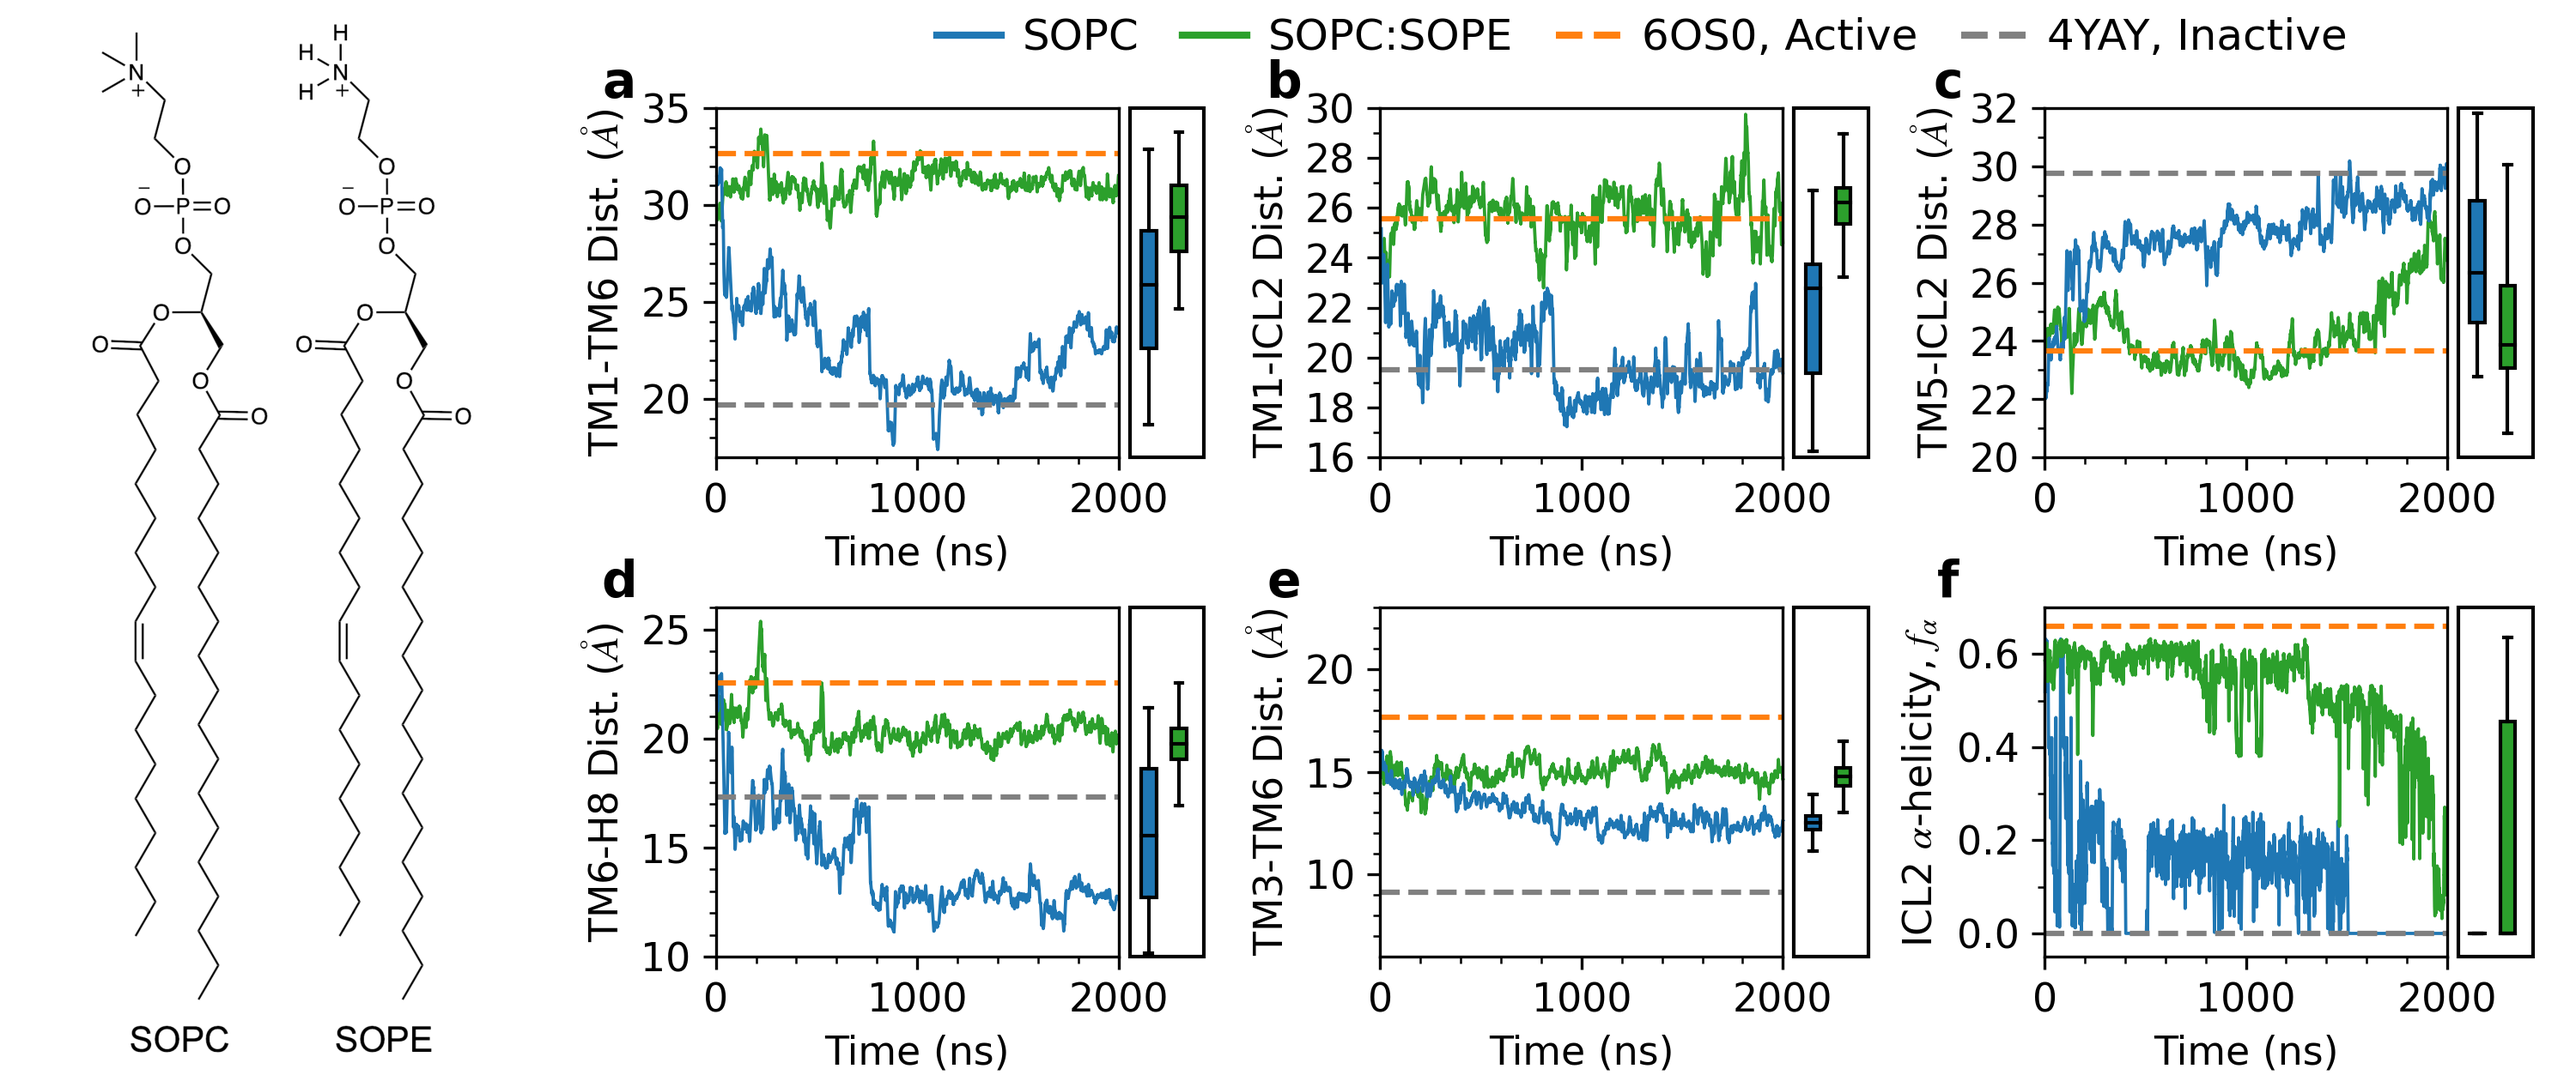
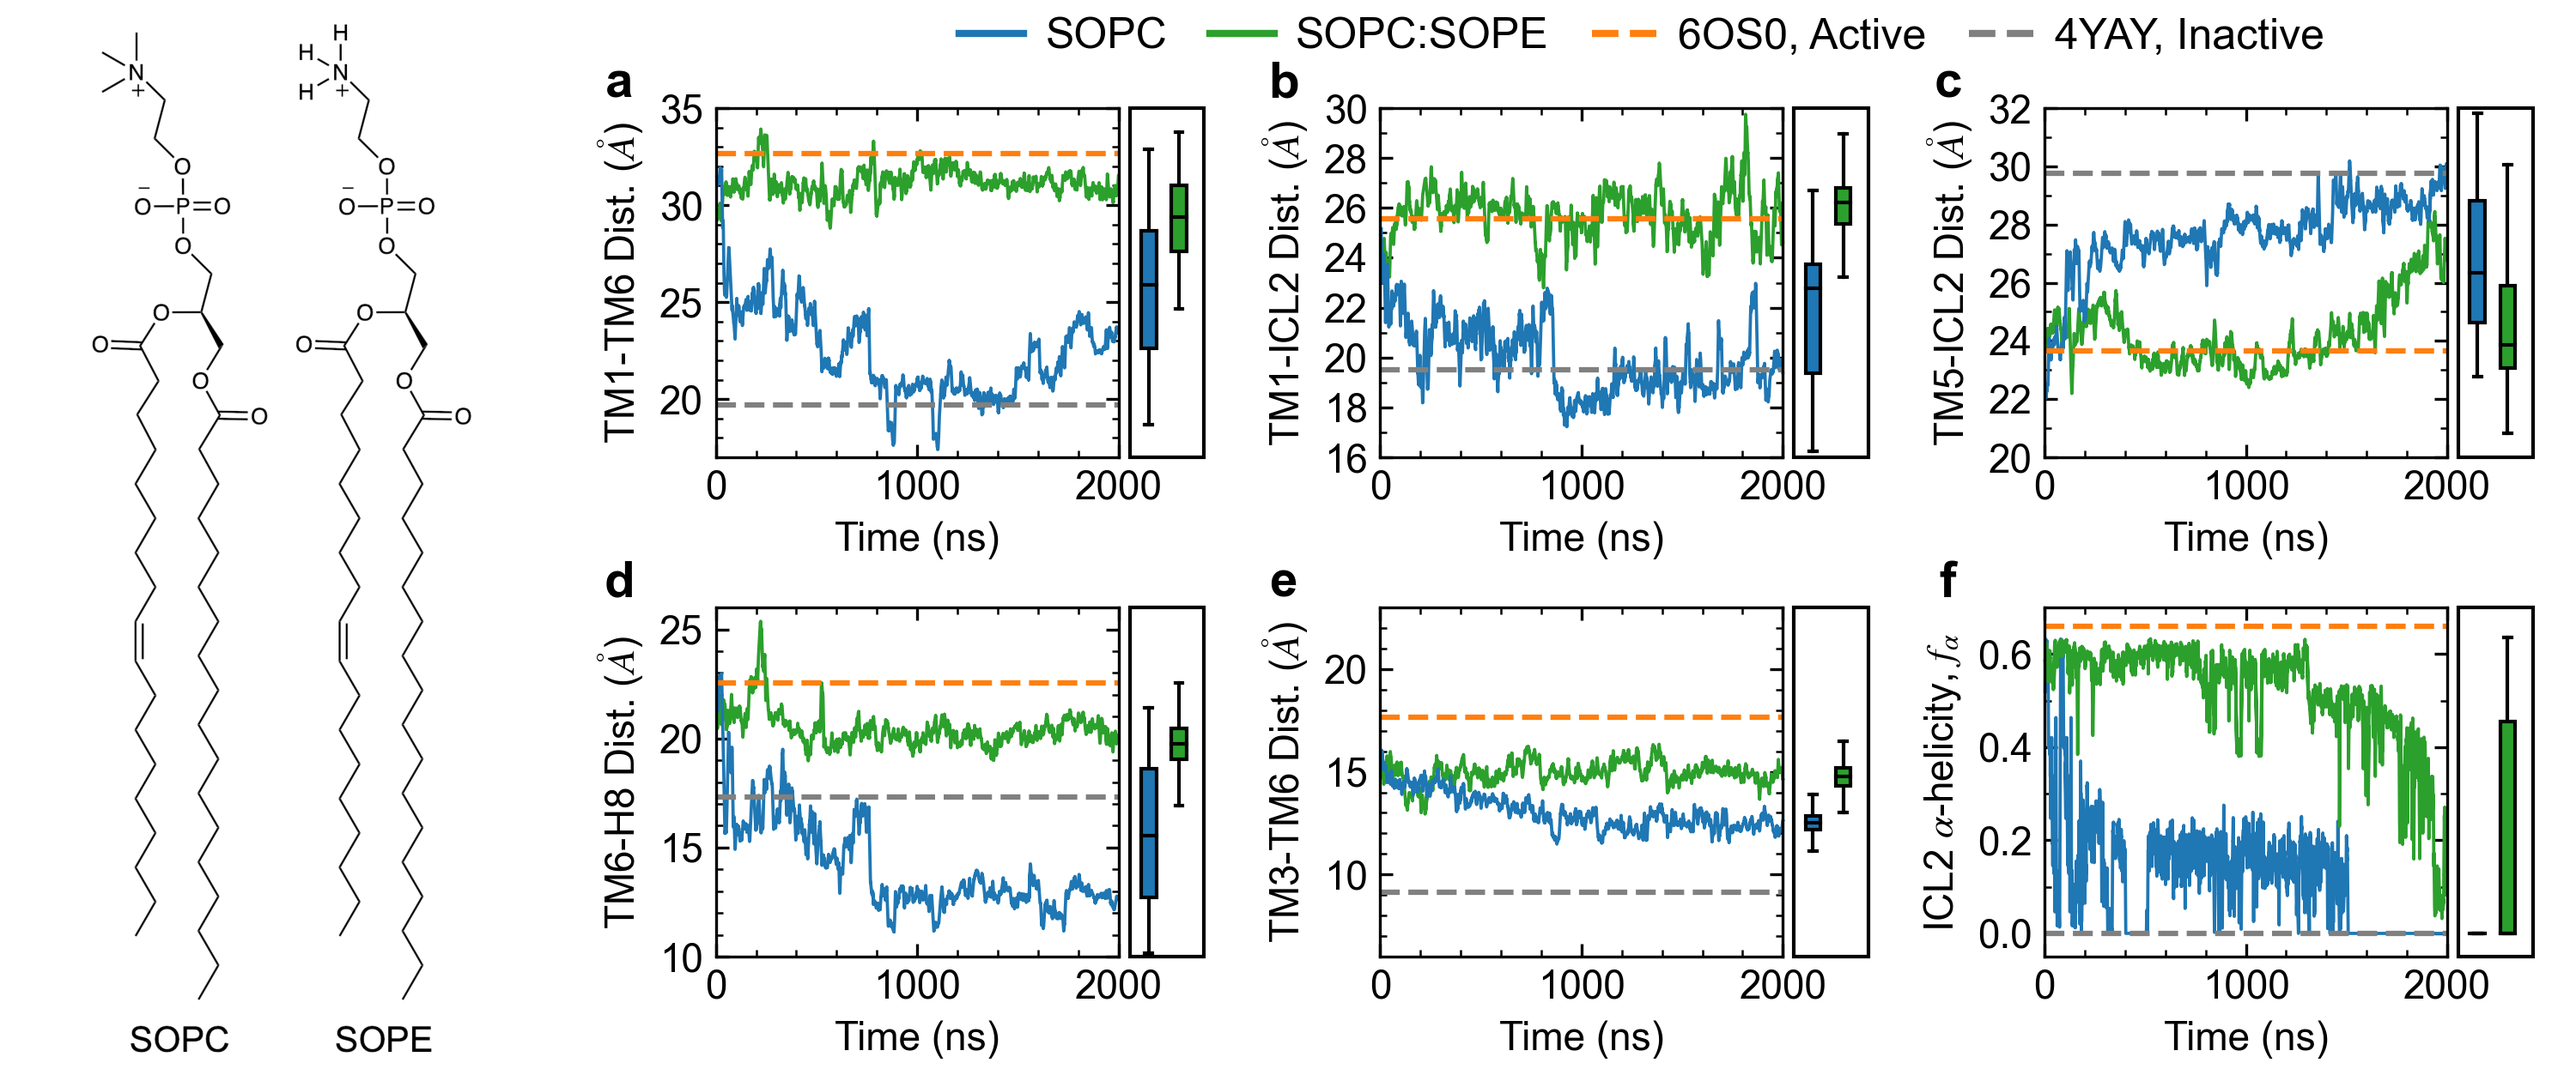
Figure changes

diff --git a/supplementary_figures/charmm36/charmm36.py b/supplementary_figures/charmm36/charmm36.py
@@ -1,7 +1,7 @@
 from numpy import *
 from matplotlib import *
 import matplotlib.pyplot as plt
-from matplotlib.ticker import MaxNLocator
+from matplotlib.ticker import MaxNLocator,MultipleLocator
 from matplotlib.ticker import AutoMinorLocator
 #from pandas import rolling_mean
 import pandas as pd
@@ -39,24 +39,25 @@ time=np.linspace(0,1000, len(sopc_apo_anton))
 
 
 
-plt.subplot(2,1,1)
+ax=plt.subplot(2,1,1)
 time_popc=np.linspace(0,1000, len(popc_apo))
 time_sopc=np.linspace(0,1000, len(sopc_apo))
-plt.plot(time_sopc, sopc_apo[['TM1-TM6']].rolling(20).mean()*10, color='tab:blue', label='Apo AT1R in SOPC (replica1)')
-plt.plot(time, sopc_apo_anton[['TM1-TM6']].rolling(10).mean()*10, color='tab:red', label='Apo AT1R in SOPC (replica2)' )
+plt.plot(time_sopc, sopc_apo[['TM1-TM6']].rolling(20).mean()*10, color='tab:blue', label='Apo AT1R in SOPC (replica 1)')
+plt.plot(time, sopc_apo_anton[['TM1-TM6']].rolling(10).mean()*10, color='tab:red', label='Apo AT1R in SOPC (replica 2)' )
 plt.plot(time_popc, popc_apo[['TM1-TM6']].rolling(20).mean()*10,color='tab:green', label='Apo AT1R in POPC')
-plt.text(-30, 37,'a', weight='bold', fontsize=15)
+plt.text(-110, 37,'a', weight='bold', fontsize=15)
 plt.xlim(0,1000)
 plt.ylim(16, 36)
-plt.axhline(y=19.70, linestyle='--', color='black', lw=2)
+plt.axhline(y=19.70, linestyle='--', color='grey', lw=2)
 plt.axhline(y=33, linestyle='--', color='tab:orange', lw=2)
-plt.legend()
+plt.legend(frameon=False)
 plt.ylabel('TM1-TM6 $   (\AA$)', fontsize=15)
 plt.xlabel('Time (ns)', fontsize=15)
 plt.xticks(fontsize=12)
 plt.yticks(fontsize=12)
-
-
+ax.yaxis.set_major_locator(MultipleLocator(5))
+ax.yaxis.set_minor_locator(AutoMinorLocator(5))
+ax.xaxis.set_minor_locator(AutoMinorLocator(2))
 
 
 sopc_ang=pd.read_csv('data/sopc_ang', delim_whitespace=True)
@@ -68,21 +69,25 @@ sopc_st15.columns=['time', 'TM1-TM6', 'TM1-ICL2', 'TM5-ICL2', 'TM6-H8', 'n', 'n'
 time_angii=np.linspace(0,1000, len(sopc_ang))
 time_st15=np.linspace(0,1000, len(sopc_st15))
 
-plt.subplot(2,1,2)
+ax=plt.subplot(2,1,2)
 plt.plot(time_angii, sopc_ang[['TM1-TM6']].rolling(10).mean()*10, color='tab:blue', label='AT1R + AngII in SOPC')
 plt.plot(time_st15, sopc_st15[['TM1-TM6']].rolling(100).mean()*10,color='tab:green', label='Apo AT1R in SOPC + 15 mN/m')
 plt.xlim(0,1000)
 plt.ylim(16, 36)
-plt.axhline(y=19.70, linestyle='--', color='black', lw=2)
+plt.axhline(y=19.70, linestyle='--', color='grey', lw=2)
 plt.axhline(y=33, linestyle='--', color='tab:orange', lw=2)
-plt.legend()
+plt.legend(frameon=False)
 plt.ylabel('TM1-TM6 $   (\AA$)', fontsize=15)
 plt.xlabel('Time (ns)', fontsize=15)
 plt.xticks(fontsize=12)
 plt.yticks(fontsize=12)
-plt.text(-30, 37,'b', weight='bold', fontsize=15)
+plt.text(-110, 37,'b', weight='bold', fontsize=15)
+ax.yaxis.set_major_locator(MultipleLocator(5))
+ax.yaxis.set_minor_locator(AutoMinorLocator(5))
+ax.xaxis.set_minor_locator(AutoMinorLocator(2))
+
 fig = plt.gcf()
-plt.subplots_adjust(top=0.92, bottom=0.1, left=0.15, right=0.95, hspace=0.3, wspace=0.0)
-plt.Figure.set_size_inches(fig,(10, 8))
-plt.savefig('Figure_s1.png', dpi=900)
+plt.subplots_adjust(top=0.92, bottom=0.1, left=0.12, right=0.95, hspace=0.3, wspace=0.0)
+plt.Figure.set_size_inches(fig,(5, 7.5))
+plt.savefig('Figure_S1.png', dpi=900)
 

diff --git a/supplementary_figures/H8_mutation/h8.py b/supplementary_figures/H8_mutation/h8.py
@@ -452,10 +452,6 @@ ax6.set_xlim(0,2000)
 rect = Rectangle((2040,-0.05), 432, 0.85, clip_on=False, ec='k', fill=False)
 ax6.add_patch(rect)
 
-print(np.quantile(popc_ssr1[0:400000].dropna().to_numpy().flatten(),0.25))
-print(np.quantile(popc_ssr1[0:400000].dropna().to_numpy().flatten(),0.5))
-print(np.quantile(popc_ssr1[0:400000].dropna().to_numpy().flatten(),0.75))
-print(popc_ss[360000:400000].to_numpy().flatten().std())
 box_parts = ax6.boxplot((popc_ss[300000:400000].dropna().to_numpy().flatten(),),
                         vert=True, positions=(start,), widths=(width,),
                         medianprops=dict(color='k'), boxprops=dict(color='k'), showfliers=False, patch_artist=True, manage_ticks=False, whis=(10,90))

diff --git a/supplementary_figures/H8_mutation/npxxy_h8.py b/supplementary_figures/H8_mutation/npxxy_h8.py
@@ -9,6 +9,7 @@ from matplotlib.ticker import AutoMinorLocator
 import pandas as pd
 import numpy as np
 import matplotlib
+from cycler import cycler
 
 params = {'legend.fontsize': 20,
           'legend.handlelength': 5}
@@ -24,7 +25,7 @@ rc('lines', linewidth=0.9)
 
 simplify = {'simplify_threshold' : '0.5'}
 rc('path', **simplify)
-
+rcParams['axes.prop_cycle'] = cycler('color', ['#1f77b4', '#2ca02c', '#ff7f0e', '#d62728', '#9467bd', '#8c564b', '#e377c2', '#7f7f7f', '#bcbd22', '#17becf'])
 
 
 sopc_r1=pd.read_csv('../NPxxY/data/sopc_r1', delim_whitespace=True)

diff --git a/supplementary_figures/energy_convergence/fes_supp.py b/supplementary_figures/energy_convergence/fes_supp.py
@@ -148,6 +148,6 @@ fig = plt.gcf()
 plt.subplot
 plt.subplots_adjust(top=0.88, bottom=0.15, left=0.18, right=0.975, hspace=0.4, wspace=0.50)
 plt.Figure.set_size_inches(fig,(4, 4))
-plt.savefig('Figure_S8.png', dpi=300)
+plt.savefig('Figure_S9.png', dpi=300)
 #plt.savefig('time_evolution.svg', dpi=900, bbox_inches='tight')
 plt.close()

diff --git a/supplementary_figures/POPC_with_ST/popc_thickness.py b/supplementary_figures/POPC_with_ST/popc_thickness.py
@@ -79,7 +79,7 @@ fig = plt.gcf()
 plt.subplots_adjust(top=0.96, bottom=0.2, left=0.17, right=0.96, hspace=0.4, wspace=0.2)
 plt.Figure.set_size_inches(fig,(3, 2.5))
 
-plt.savefig('Figure_S3.png', dpi=300)
+plt.savefig('Figure_S4.png', dpi=300)
 #plt.savefig('time_evolution.svg', dpi=900, bbox_inches='tight')
 plt.close()
 

diff --git a/supplementary_figures/energy_convergence/rmsd_fes.py b/supplementary_figures/energy_convergence/rmsd_fes.py
@@ -41,4 +41,4 @@ plt.ylabel('$F$ RMSD (kcal/mol)', fontsize=18)
 plt.xlabel('Time (ns)', fontsize=18)
 plt.yticks([0,1,2,3,4], fontsize=15)
 plt.xticks(fontsize=15)
-plt.savefig('Figure_S7.png', bbox_inches='tight', dpi=300)
+plt.savefig('Figure_S8.png', bbox_inches='tight', dpi=300)

diff --git a/supplementary_figures/POPC_with_ST/popc_st.py b/supplementary_figures/POPC_with_ST/popc_st.py
@@ -259,4 +259,4 @@ fig = plt.gcf()
 plt.subplots_adjust(top=0.9, bottom=0.15, left=0.09, right=0.98, hspace=0.35, wspace=0.4)
 plt.Figure.set_size_inches(fig,(12, 6))
 
-plt.savefig('Figure_S2.png', dpi=300)
+plt.savefig('Figure_S3.png', dpi=300)

diff --git a/supplementary_figures/H8_mutation/insertion_depth.py b/supplementary_figures/H8_mutation/insertion_depth.py
@@ -174,4 +174,4 @@ plt.ylim(-20,15)
 plt.legend(frameon=False)
 
 plt.subplots_adjust(top=0.90, bottom=0.115, left=0.1, right=0.975, hspace=0.3, wspace=0.3)
-plt.savefig('Figure_S5.png', dpi=300)
+plt.savefig('Figure_S7.png', dpi=300)
